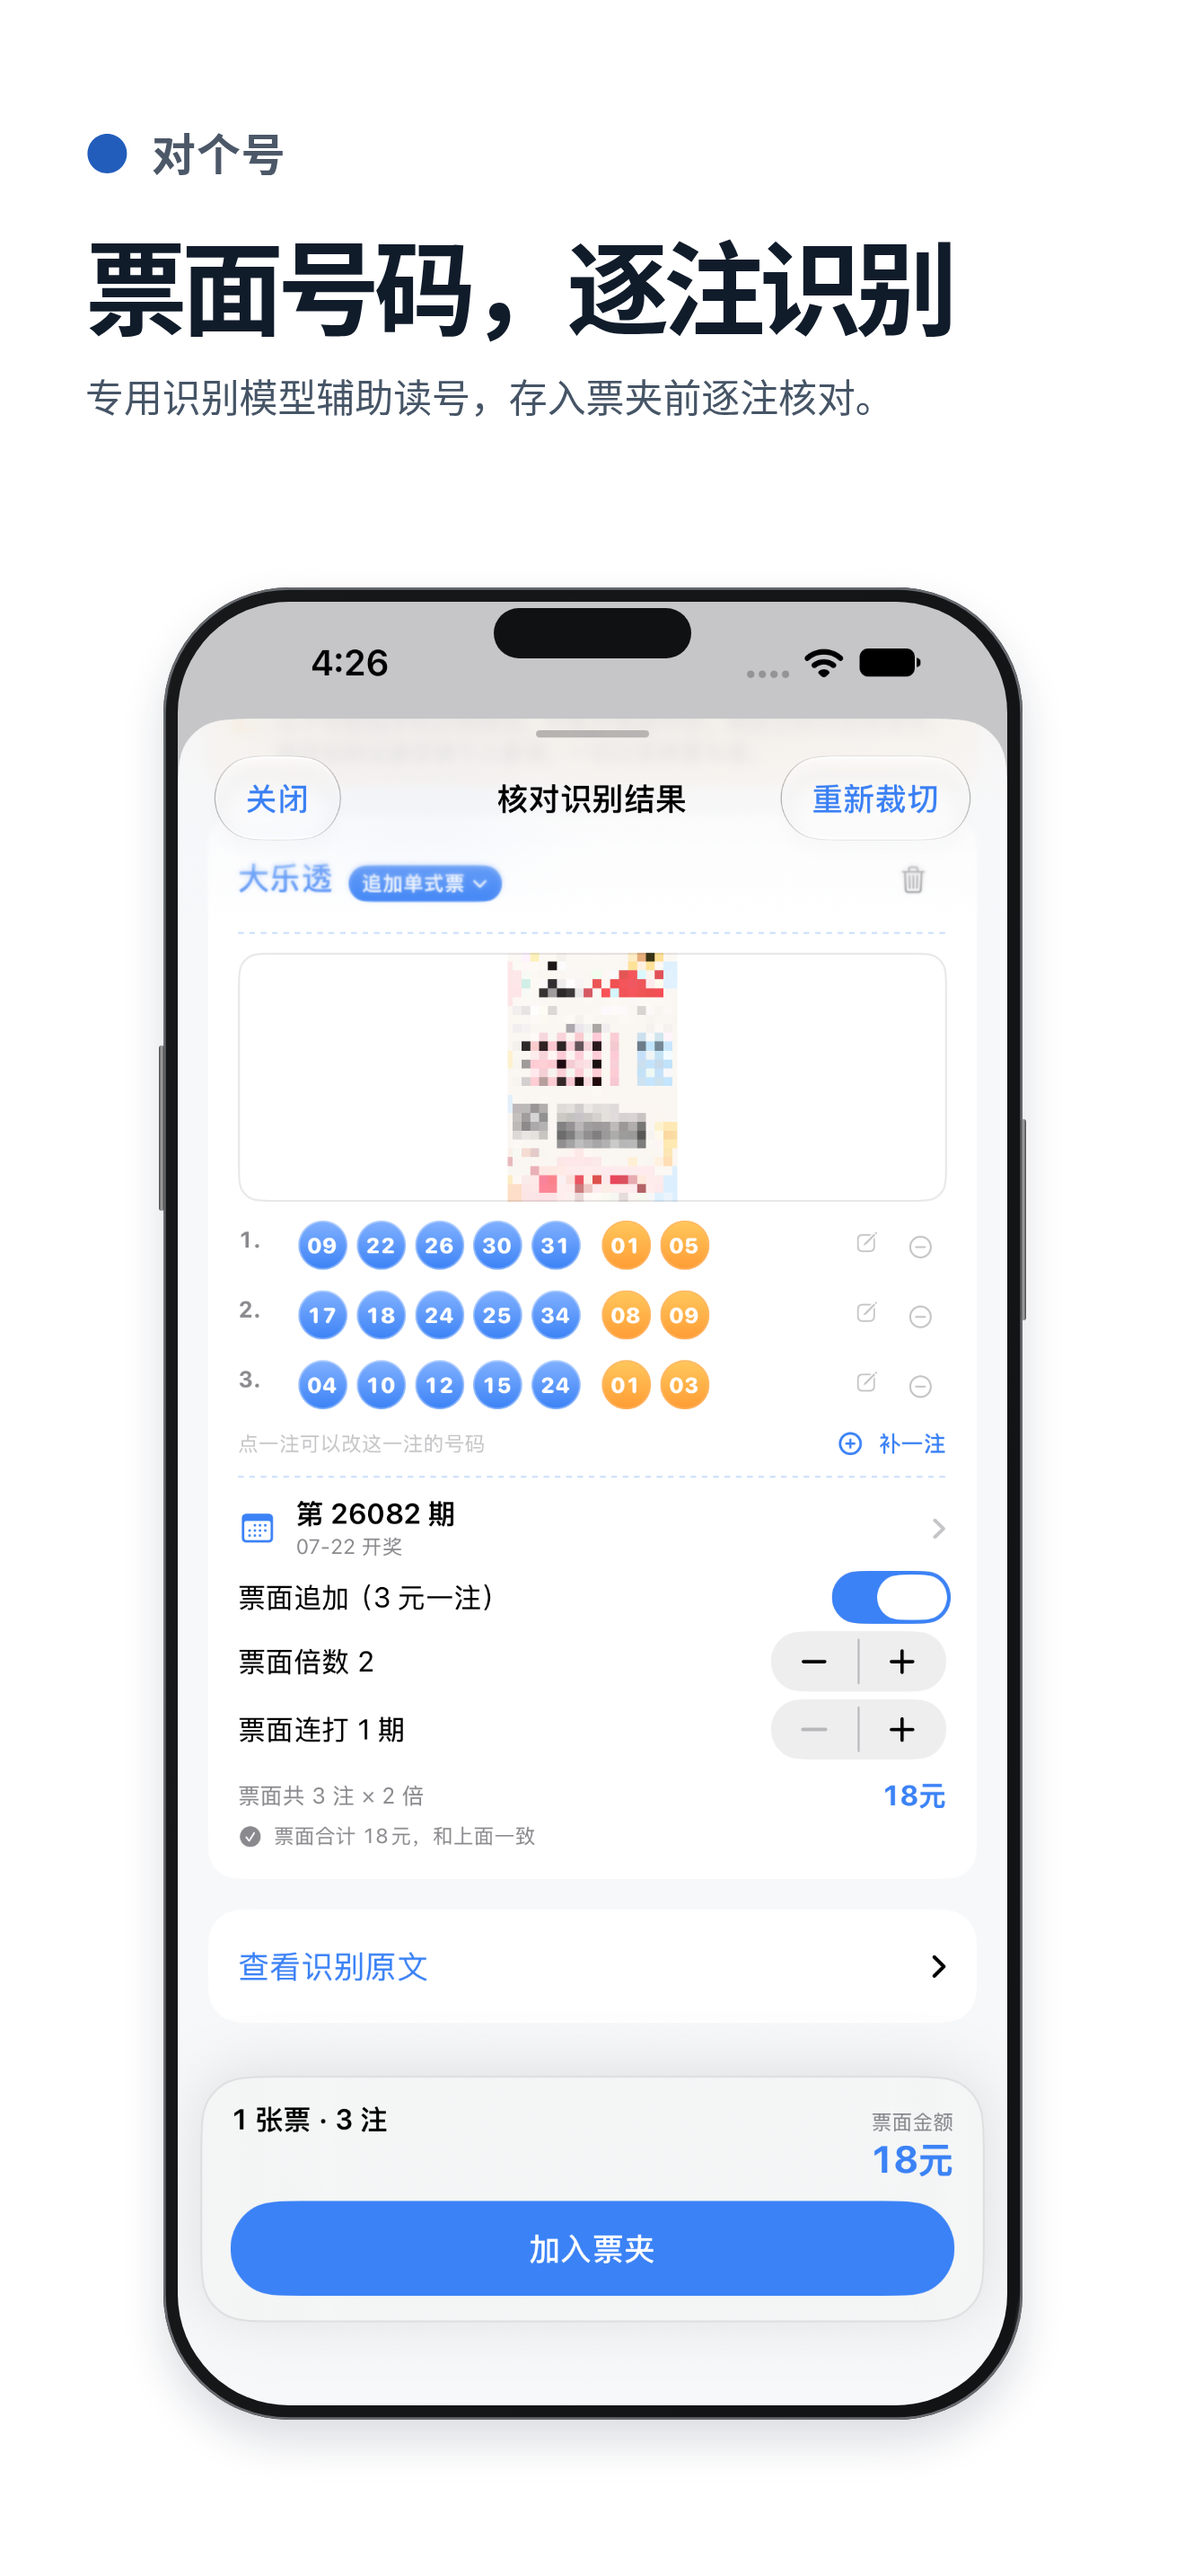
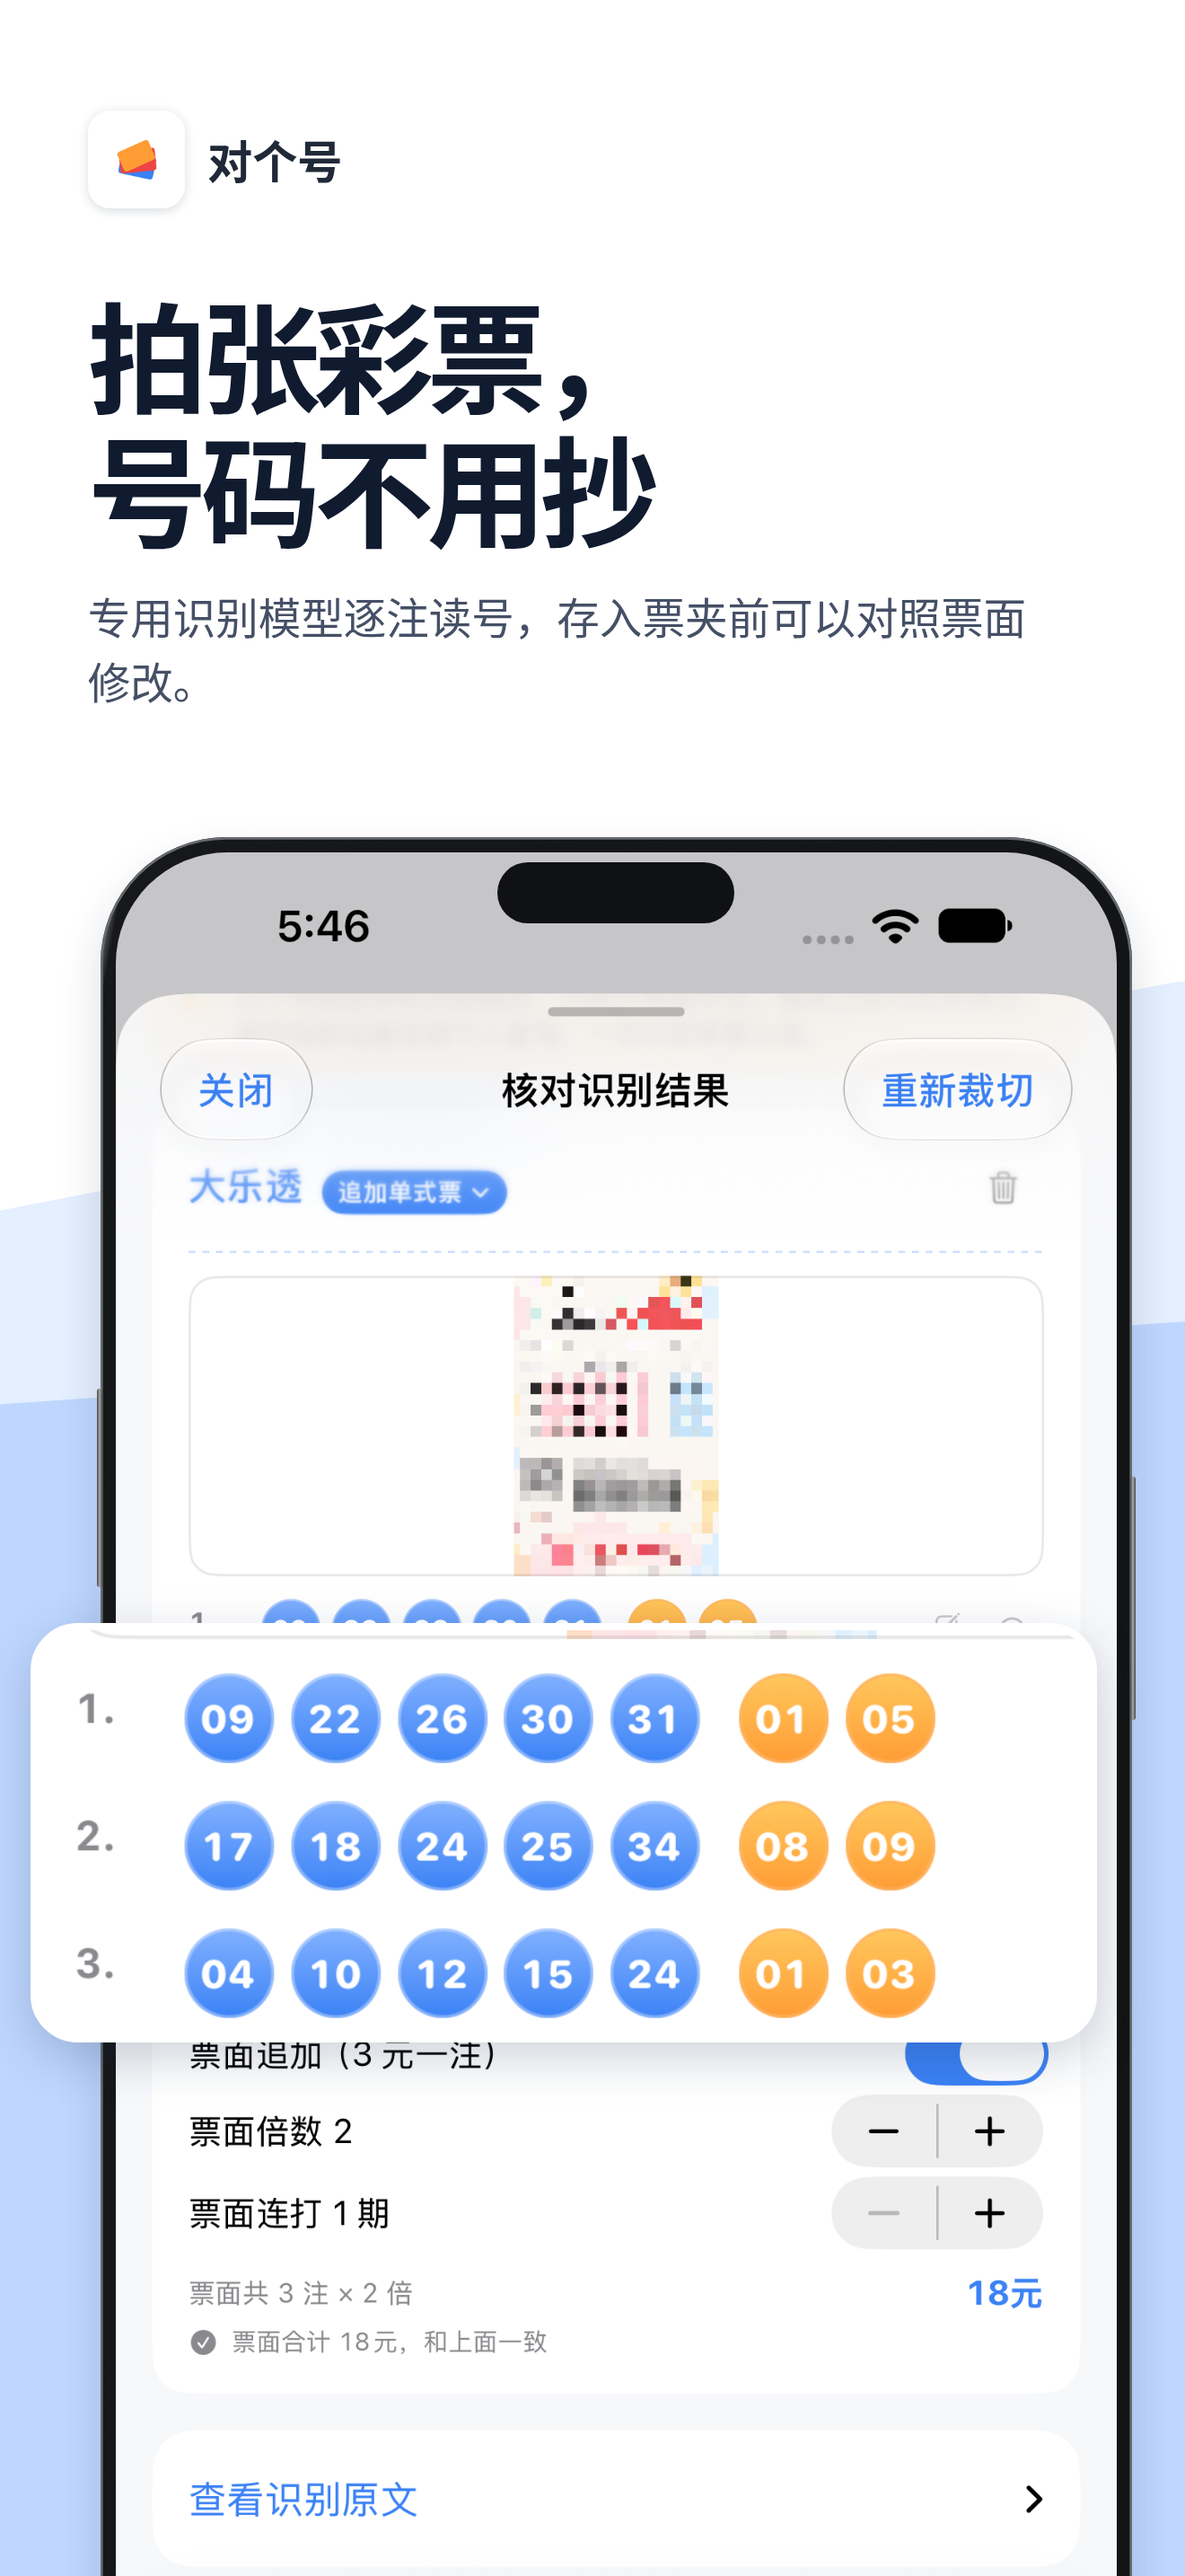
Publish five branded store posters from verified simulator frames
Notification image taken from the retained, pixel-verified notification-center attachment of the successful run 45118085385. Capture the stable center even when the transient banner is missed.

diff --git a/AppStore/Studio/index.html b/AppStore/Studio/index.html
@@ -48,40 +48,32 @@
         width: 100%;
         aspect-ratio: 1320/2868;
       }
-      .copy {
-        position: absolute;
-        left: 7.2%;
-        right: 6%;
-        top: 4.7%;
-      }
-      .brand {
-        font-size: 3.7cqw;
-        font-weight: 650;
-        letter-spacing: 0.02em;
-        color: #4c5868;
-      }
-      .brand b {
-        color: #225dbc;
-        margin-right: 0.25em;
-      }
-      h1 {
-        font-size: 8.6cqw;
-        line-height: 1.16;
-        letter-spacing: -0.055em;
-        margin: 0.4em 0 0.25em;
-        color: #111c2b;
-      }
-      p {
-        margin: 0;
-        color: #465566;
-        font-size: 3.25cqw;
-        line-height: 1.45;
-      }
+      .copy { position:absolute; z-index:2; left:7.4%; right:6.5%; top:4.3%; }
+      .brand { display:flex; gap:1.9cqw; align-items:center; color:#202938; font-size:3.8cqw; font-weight:750; }
+      .mark { width:8.2cqw; height:8.2cqw; border-radius:1.9cqw; box-shadow:0 .2cqw .9cqw #14243e28; }
+      h1 { font-size:10.1cqw; line-height:1.12; letter-spacing:-.055em; font-weight:850; margin:.64em 0 .26em; color:#101b2f; white-space:pre-line; }
+      p { margin:0; color:#455066; font-size:3.6cqw; line-height:1.52; max-width:81cqw; }
+      .poster { --pale:#e4efff; --mid:#bfd7ff; isolation:isolate; }
+      .poster[data-slide="1"] { --pale:#fde9e4; --mid:#ffcbbd; }
+      .poster[data-slide="2"] { --pale:#e6edff; --mid:#bdcdff; }
+      .poster[data-slide="3"] { --pale:#e9edf9; --mid:#d4dff4; }
+      .poster::before,.poster::after { content:""; position:absolute; z-index:-1; border-radius:9cqw; }
+      .poster::before { top:43%; left:-19%; width:143%; height:74%; transform:rotate(-11deg); background:var(--pale); }
+      .poster::after { top:53%; left:-24%; width:148%; height:72%; transform:rotate(-4deg); background:var(--mid); }
+      .detail { display:none; position:absolute; z-index:3; border:.65cqw solid white; background:white; border-radius:4cqw; overflow:hidden; box-shadow:0 1.3cqw 4cqw #172d4c35; }
+      .detail img { display:block; position:absolute; max-width:none; }
+      /* Enlargements are crops of the same original simulator frame. */
+      [data-slide="0"] .detail { display:block; left:2.6%; width:90%; top:63%; height:16.3%; }
+      [data-slide="0"] .detail img { width:144%; left:-7%; top:-268%; }
+      [data-slide="3"] .detail { display:block; left:2.8%; width:94.4%; top:61%; height:23%; }
+      [data-slide="3"] .detail img { width:114%; left:-7%; top:-156%; }
+      [data-slide="2"] .detail { display:block; left:3%; width:94%; top:70%; height:10.3%; }
+      [data-slide="2"] .detail img { width:108%; left:-4%; top:-804%; }
       .device {
         position: absolute;
-        top: 22.8%;
-        width: 72.5%;
-        left: 13.75%;
+        top: 32.5%;
+        width: 87%;
+        left: 8.5%;
         padding: 1.25%;
         border-radius: 10.6cqw;
         background: linear-gradient(
@@ -99,6 +91,10 @@
           0 1.8cqw 3.6cqw #15233a27,
           inset 0 0 0 0.2cqw #676b70;
       }
+      [data-slide="1"] .device { width:94%; left:3%; top:32%; }
+      [data-slide="3"] .device { width:76%; left:17%; top:34%; }
+      [data-slide="2"] .device { top:37%; left:8%; width:86%; }
+      [data-slide="4"] .device { width:91%; left:5%; top:34%; }
       .device img {
         display: block;
         width: 100%;
@@ -157,46 +153,28 @@
     <main class="stage">
       <section class="poster">
         <div class="copy">
-          <div class="brand"><b>●</b> 对个号</div>
+          <div class="brand"><img class="mark" src="app-icon.png" alt="" />对个号</div>
           <h1 contenteditable="true"></h1>
           <p contenteditable="true"></p>
         </div>
         <div class="device"><img alt="" /><i class="island"></i></div>
+        <div class="detail" aria-hidden="true"><img alt="" /></div>
       </section>
     </main>
     <script src="vendor/html2canvas.min.js"></script>
     <script>
       const base = "../../Tests/LotteryWalletUITests/__Snapshots__/";
       const slides = [
-        [
-          "识别",
-          "票面号码，逐注识别",
-          "专用识别模型辅助读号，存入票夹前逐注核对。",
-          "AppStoreScreenshotTests/04-scan.png",
-        ],
-        [
-          "多票",
-          "一次拍下，多张识别",
-          "逐张框选彩票，同一张照片里的票可以一起识别。",
-          "AppStoreScreenshotTests/06-multiple.png",
-        ],
-        [
-          "球罐",
-          "每次命中，都入一球",
-          "按月或按年回看命中号码，摇一摇，让小球滚起来。",
-          "KeyFlowTests/home-jar.png",
-        ],
-        [
-          "票夹",
-          "每张票，都有明细",
-          "开奖号码、命中情况和票面收支，放在一起看。",
-          "AppStoreScreenshotTests/02-wallet.png",
-        ],
+        ["识别", "拍张彩票，\n号码不用抄", "专用识别模型逐注读号，存入票夹前可以对照票面修改。", "AppStoreScreenshotTests/04-scan.png"],
+        ["多票", "双色球、大乐透，\n一起拍", "一张照片里有几张票，就分开框选、逐张核对。", "AppStoreScreenshotTests/06-multiple.png"],
+        ["通知", "开了什么号，\n中了几注", "开奖后，一条通知就能看见开奖号码、命中注数和已知奖金。", "AppStoreScreenshotTests/07-notification.png"],
+        ["球罐", "把命中的号码，\n攒成一罐", "每次命中都算数。按月或按年回看，还能摇动小球。", "KeyFlowTests/balls-309-rest.png"],
+        ["票夹", "你的票夹，\n留在你的手机里", "票据默认保存在本机。需要备份时，可自行开启 iCloud 备份。", "AppStoreScreenshotTests/02-wallet.png"],
       ];
       const select = document.querySelector("select"),
         title = document.querySelector("h1"),
         desc = document.querySelector("p"),
-        img = document.querySelector("img");
+        img = document.querySelector(".device img");
       slides.forEach(([name], i) => select.add(new Option(name, i)));
       const params = new URLSearchParams(location.search);
       if (params.has("export")) document.body.classList.add("export");
@@ -204,11 +182,13 @@
         const slide = slides[i];
         let copy;
         try {
-          copy = JSON.parse(localStorage.getItem("store-slide-" + i));
+          copy = JSON.parse(localStorage.getItem("store-v2-slide-" + i));
         } catch {}
         title.textContent = copy?.[0] ?? slide[1];
         desc.textContent = copy?.[1] ?? slide[2];
+        document.querySelector(".poster").dataset.slide = i;
         img.src = base + slide[3];
+        document.querySelector(".detail img").src = img.src;
         img.alt = slide[0] + "模拟器截图";
         select.value = i;
       }
@@ -216,11 +196,11 @@
       for (const field of [title, desc])
         field.oninput = () =>
           localStorage.setItem(
-            "store-slide-" + select.value,
+            "store-v2-slide-" + select.value,
             JSON.stringify([title.textContent, desc.textContent]),
           );
       document.querySelector("#reset").onclick = () => {
-        localStorage.removeItem("store-slide-" + select.value);
+        localStorage.removeItem("store-v2-slide-" + select.value);
         show(+select.value);
       };
       document.querySelector("#download").onclick = async (e) => {
@@ -244,7 +224,7 @@
           button.disabled = false;
         }
       };
-      show(Math.min(3, Math.max(0, parseInt(params.get("page")) || 0)));
+      show(Math.min(slides.length - 1, Math.max(0, parseInt(params.get("page")) || 0)));
     </script>
   </body>
 </html>

diff --git a/Tests/LotteryWalletUITests/AppStoreScreenshotTests.swift b/Tests/LotteryWalletUITests/AppStoreScreenshotTests.swift
@@ -103,10 +103,9 @@ final class AppStoreScreenshotTests: XCTestCase {
         if allow.waitForExistence(timeout: 3) { allow.tap() }
         let result = board.descendants(matching: .any)
             .matching(NSPredicate(format: "label CONTAINS %@", "2026134")).firstMatch
-        guard result.waitForExistence(timeout: 20) else {
-            XCTFail("系统没有显示开奖通知横幅")
-            return
-        }
+        // A banner may already have been filed in Notification Center.
+        // Its transient accessibility element is never a capture prerequisite.
+        _ = result.waitForExistence(timeout: 8)
         // Accessibility can expose the banner before its first visible frame.
         // Read the actual screenshot pixels, and keep the very frame we verified.
         func visibleNotification() -> XCUIScreenshot? {
@@ -118,10 +117,6 @@ final class AppStoreScreenshotTests: XCTestCase {
             let words = (read.results ?? []).compactMap { $0.topCandidates(1).first?.string }.joined()
             guard words.contains("2026134"), words.contains("奖金") else { return nil }
             return shot
-        }
-        if let banner = visibleNotification() {
-            capture("07-notification", screenshot: banner)
-            return
         }
         XCUIDevice.shared.press(.home)
         let start = board.coordinate(withNormalizedOffset: CGVector(dx: 0.18, dy: 0.003))

diff --git a/AppStore/Studio/package.py b/AppStore/Studio/package.py
@@ -22,10 +22,11 @@ def package(destination):
         return '"' + embedded(snapshots / match[2]) + '"'
 
     page, count = re.subn(pattern, embed_snapshot, template)
-    if count != 4:
-        raise ValueError(f"Expected four store screenshots, found {count}")
+    if count != 5:
+        raise ValueError(f"Expected five store screenshots, found {count}")
     page = re.sub(r"const base\s*=\s*['\"][^'\"]*['\"]", 'const base = ""', page)
     page = page.replace("vendor/html2canvas.min.js", embedded(studio / "vendor/html2canvas.min.js"))
+    page = page.replace('src="app-icon.png"', 'src="' + embedded(studio / "app-icon.png") + '"')
     license_text = (studio / "vendor/LICENSE").read_text()
     page = page.replace("</html>", f"<!-- html2canvas license\n{license_text}\n-->\n</html>")
     destination.write_text(page)
